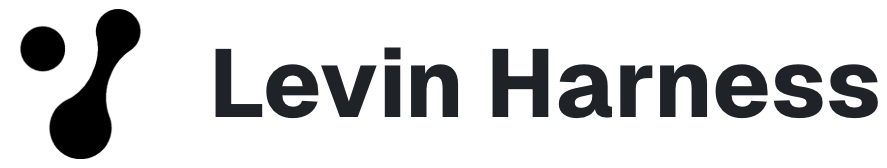
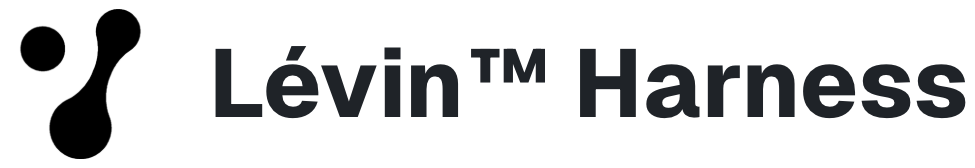
Use Lévin™ Harness product name

Changed region(s): [[0.2131, 0.2679, 1.0, 0.7143], [0.0, 0.0298, 0.1826, 0.9524], [0.0304, 0.3869, 0.0609, 0.4464]]

diff --git a/README.md b/README.md
@@ -3,7 +3,7 @@
   <picture>
     <source media="(prefers-color-scheme: dark)" srcset="assets/wordmark-on-dark.png" />
     <source media="(prefers-color-scheme: light)" srcset="assets/wordmark-on-light.png" />
-    <img src="assets/wordmark-on-light.png" width="320" alt="Levin Harness" />
+    <img src="assets/wordmark-on-light.png" width="320" alt="Lévin™ Harness" />
   </picture>
 </h1>
 
@@ -28,15 +28,15 @@
 
 <p align="center">Preview · Apple silicon · Bring your own model</p>
 
-![Levin Harness workspace with an AI agent conversation and the 1AON molecular structure in the Mol* viewer](assets/workspace.webp)
+![Lévin™ Harness workspace with an AI agent conversation and the 1AON molecular structure in the Mol* viewer](assets/workspace.webp)
 
-This is the official repository for Levin Harness releases, product information, and user feedback. The application source code is not publicly available.
+This is the official repository for Lévin™ Harness releases, product information, and user feedback. The application source code is not publicly available.
 
 ## Download
 
 | Platform | Download | Status |
 | --- | --- | --- |
-| macOS, Apple silicon | [Levin Harness 2.902.4 (.dmg)](https://levinthal.design/public/downloads/Levin-Harness-2.902.4-arm64.dmg) | Preview |
+| macOS, Apple silicon | [Lévin™ Harness 2.902.4 (.dmg)](https://levinthal.design/public/downloads/Levin-Harness-2.902.4-arm64.dmg) | Preview |
 
 The current installer is hosted on our website. See [Releases](https://github.com/levinthal/levin-harrness/releases) for packages and release notes as they become available here.
 
@@ -55,13 +55,13 @@ Download the `.dmg` installer. GitHub's **Code > Download ZIP** and automaticall
 <details>
 <summary>See the workflow canvas</summary>
 
-![Levin Harness showing an antibody design workflow on a visual canvas alongside an agent conversation](assets/workflows.webp)
+![Lévin™ Harness showing an antibody design workflow on a visual canvas alongside an agent conversation](assets/workflows.webp)
 
 </details>
 
 ## Get started
 
-1. **Install the app.** Download the `.dmg`, open it, and drag Levin Harness into **Applications**.
+1. **Install the app.** Download the `.dmg`, open it, and drag Lévin™ Harness into **Applications**.
 2. **Connect a model.** Open **Settings > Model > New provider**, enter your provider configuration, run **Test Connection**, and save it as the default model.
 3. **Open a project.** Choose a local folder, review the task permissions, and start a conversation. Try asking the agent to list the project files or summarize a document.
 
@@ -73,9 +73,9 @@ See the [installation guide](https://levinthal.design/install.html) for the comp
 
 The current preview supports macOS on Apple silicon. Builds for Intel Macs, Windows, and Linux are not currently available. A Linux GPU machine can be connected as a remote compute host.
 
-### Is Levin Harness free?
+### Is Lévin™ Harness free?
 
-The preview is currently free for non-commercial use, subject to the [Terms of Service](https://levinthal.design/terms.html). Model providers may charge separately for usage; those fees are not included with Levin Harness.
+The preview is currently free for non-commercial use, subject to the [Terms of Service](https://levinthal.design/terms.html). Model providers may charge separately for usage; those fees are not included with Lévin™ Harness.
 
 ### Where does my data go?
 
@@ -83,7 +83,7 @@ Projects, conversations, settings, and API keys are stored locally by default. T
 
 ### Is this an open-source project?
 
-The Levin Harness application source code is not public. This repository provides product information, release downloads, and a place to report problems or request features. Using an integrated open-source tool does not make the application itself open source; individual tools have their own terms.
+The Lévin™ Harness application source code is not public. This repository provides product information, release downloads, and a place to report problems or request features. Using an integrated open-source tool does not make the application itself open source; individual tools have their own terms.
 
 ## Feedback and community
 

diff --git a/README.zh-CN.md b/README.zh-CN.md
@@ -3,7 +3,7 @@
   <picture>
     <source media="(prefers-color-scheme: dark)" srcset="assets/wordmark-on-dark.png" />
     <source media="(prefers-color-scheme: light)" srcset="assets/wordmark-on-light.png" />
-    <img src="assets/wordmark-on-light.png" width="320" alt="Levin Harness" />
+    <img src="assets/wordmark-on-light.png" width="320" alt="Lévin™ Harness" />
   </picture>
 </h1>
 
@@ -28,15 +28,15 @@
 
 <p align="center">预览版 · Apple silicon · 自备模型服务</p>
 
-![Levin Harness 工作区：AI 智能体对话与 Mol* 中的 1AON 分子结构同屏显示](assets/workspace.webp)
+![Lévin™ Harness 工作区：AI 智能体对话与 Mol* 中的 1AON 分子结构同屏显示](assets/workspace.webp)
 
-这是 Levin Harness 的官方发布与反馈仓库，用于提供产品介绍、安装包和收集用户反馈。应用源码暂不公开。
+这是 Lévin™ Harness 的官方发布与反馈仓库，用于提供产品介绍、安装包和收集用户反馈。应用源码暂不公开。
 
 ## 下载
 
 | 平台 | 下载 | 状态 |
 | --- | --- | --- |
-| macOS，Apple silicon | [Levin Harness 2.902.4（.dmg）](https://levinthal.design/public/downloads/Levin-Harness-2.902.4-arm64.dmg) | 预览版 |
+| macOS，Apple silicon | [Lévin™ Harness 2.902.4（.dmg）](https://levinthal.design/public/downloads/Levin-Harness-2.902.4-arm64.dmg) | 预览版 |
 
 当前安装包由官网提供。后续在此发布的安装包和版本说明可在 [Releases](https://github.com/levinthal/levin-harrness/releases) 查看。
 
@@ -55,13 +55,13 @@
 <details>
 <summary>查看工作流画布</summary>
 
-![Levin Harness 工作流画布：抗体设计流程与智能体对话同屏显示](assets/workflows.webp)
+![Lévin™ Harness 工作流画布：抗体设计流程与智能体对话同屏显示](assets/workflows.webp)
 
 </details>
 
 ## 开始使用
 
-1. **安装应用。** 下载并打开 `.dmg`，将 Levin Harness 拖入 **Applications（应用程序）**。
+1. **安装应用。** 下载并打开 `.dmg`，将 Lévin™ Harness 拖入 **Applications（应用程序）**。
 2. **连接模型。** 打开 **Settings > Model > New provider**，填写模型服务配置，执行 **Test Connection**，保存并设为默认模型。
 3. **打开项目。** 选择本地文件夹，检查任务权限，然后开始对话。可以先让智能体列出项目文件或总结一份文档。
 
@@ -75,7 +75,7 @@
 
 ### 是否免费？
 
-预览阶段目前对非商业用途免费，具体以[服务条款](https://levinthal.design/terms.html)为准。模型供应商可能单独收取使用费用，这部分费用不包含在 Levin Harness 中。
+预览阶段目前对非商业用途免费，具体以[服务条款](https://levinthal.design/terms.html)为准。模型供应商可能单独收取使用费用，这部分费用不包含在 Lévin™ Harness 中。
 
 ### 数据存储在哪里？
 
@@ -83,7 +83,7 @@
 
 ### 这是开源项目吗？
 
-Levin Harness 应用源码暂不公开。本仓库提供产品说明、版本下载与反馈入口。集成开源工具不代表应用本身开源，各工具适用各自的使用条款。
+Lévin™ Harness 应用源码暂不公开。本仓库提供产品说明、版本下载与反馈入口。集成开源工具不代表应用本身开源，各工具适用各自的使用条款。
 
 ## 反馈与社区
 
